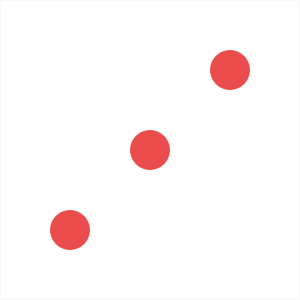
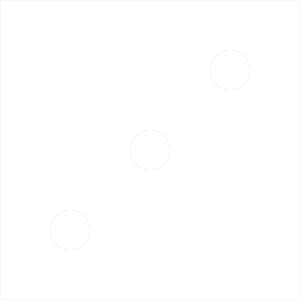
adding new dice

Changed region(s): [[0.69, 0.15, 0.84, 0.3], [0.42, 0.42, 0.57, 0.57], [0.15, 0.69, 0.3, 0.84]]

diff --git a/app.js b/app.js
@@ -1,9 +1,6 @@
 /*
 YOUR 3 CHALLENGES
 Change the game to follow these rules:
-
-1. A player looses his ENTIRE score when he rolls two 6 in a row. After that, it's the next player's turn. (Hint: Always save the previous dice roll in a separate variable)
-2. Add an input field to the HTML where players can set the winning score, so that they can change the predefined score of 100. (Hint: you can read that value with the .value property in JavaScript. This is a good oportunity to use google to figure this out :)
 3. Add another dice to the game, so that there are two dices now. The player looses his current score when one of them is a 1. (Hint: you will need CSS to position the second dice, so take a look at the CSS code for the first one.)
 */
 
@@ -23,18 +20,24 @@ document.getElementById('max-score').addEventListener('change',function(){
 document.querySelector('.btn-roll').addEventListener('click', function () {
     if (gameHasfinished == 0) {
 
-        var dice = Math.floor(Math.random() * 6) + 1;
-        var diceDOM = document.querySelector('.dice');
-        if (dice !== 1) {
-            diceDOM.style.display = 'block';
-            diceDOM.src = `./pictures/dice-${dice}.png`;
-            roundScore += dice;
+        var dice1 = Math.floor(Math.random() * 6) + 1;
+        var dice2 = Math.floor(Math.random() * 6) + 1;
+        var dice1DOM = document.querySelector('.dice1');
+        var dice2DOM = document.querySelector('.dice2');
+        dice1DOM.src = `./pictures/dice-${dice1}.png`;
+        dice2DOM.src = `./pictures/dice-${dice2}.png`;
+        if (dice1 !== 1 && dice2 !== 1) {
+            dice1DOM.style.display = 'block';
+            dice2DOM.style.display = 'block';
+            roundScore= roundScore+dice1+dice2;
             document.getElementById('current-' + activePlayer).textContent = roundScore;
         } else {
            
             nextPlayer();
 
         }
+
+        
 
     }
 })
@@ -67,7 +70,8 @@ function startGame() {
     roundScore = 0;
     activePlayer = Math.round(Math.random());
     gameHasfinished = 0;
-    document.querySelector('.dice').style.display ='none';
+    document.querySelector('.dice1').style.display ='none';
+    document.querySelector('.dice2').style.display ='none';
     document.querySelector('.player-0-panel').classList.remove('active');
     document.querySelector('.player-1-panel').classList.remove('active');
     document.querySelector('.player-' + activePlayer + '-panel').classList.add('active');
@@ -78,7 +82,6 @@ function startGame() {
 }
 
 function nextPlayer() {
-    document.querySelector('.dice').style.display ='none';
     roundScore = 0;
     document.getElementById('current-' + activePlayer).textContent = '0';
     document.querySelector('.player-' + activePlayer + '-panel').classList.toggle('active');
@@ -90,7 +93,8 @@ function nextPlayer() {
 function winner() {
     gameHasfinished = 1;
     document.getElementById('name-' + activePlayer).textContent = 'Winner';
-    document.querySelector('.dice').style.display = "none";
+    document.querySelector('.dice1').style.display ='none';
+    document.querySelector('.dice2').style.display ='none';
     document.querySelector('.player-' + activePlayer + '-panel').classList.add('winner');
     document.querySelector('.player-' + activePlayer + '-panel').classList.remove('active');
 }

diff --git a/style.css b/style.css
@@ -162,14 +162,23 @@ i {
 input{top:520px;}
 
 .dice {
-    display: none;
     position: absolute;
     left: 50%;
-    top: 178px;
     transform: translateX(-50%);
-    height: 100px;
+    height: 80px;
     box-shadow: 0px 10px 60px rgba(0, 0, 0, 0.10);
+    background: var(--main-color);
 }
+
+.dice1{
+    top: 178px;
+   }
+
+.dice2{
+    top: 270px;
+    }
+
+
 
 .winner { background-color: #f7f7f7; }
 .winner .player-name { font-weight: 300; color: var(--main-color); }

diff --git a/index.html b/index.html
@@ -36,7 +36,8 @@
        min="10" max="200" placeholder="Final Score">
 
             
-            <img src="./pictures/dice-5.png" alt="Dice" class="dice">
+            <img src="./pictures/dice-5.png" alt="Dice" class="dice dice1">
+            <img src="./pictures/dice-5.png" alt="Dice" class="dice dice2">
         </div>
         
         <script src="app.js"></script>
